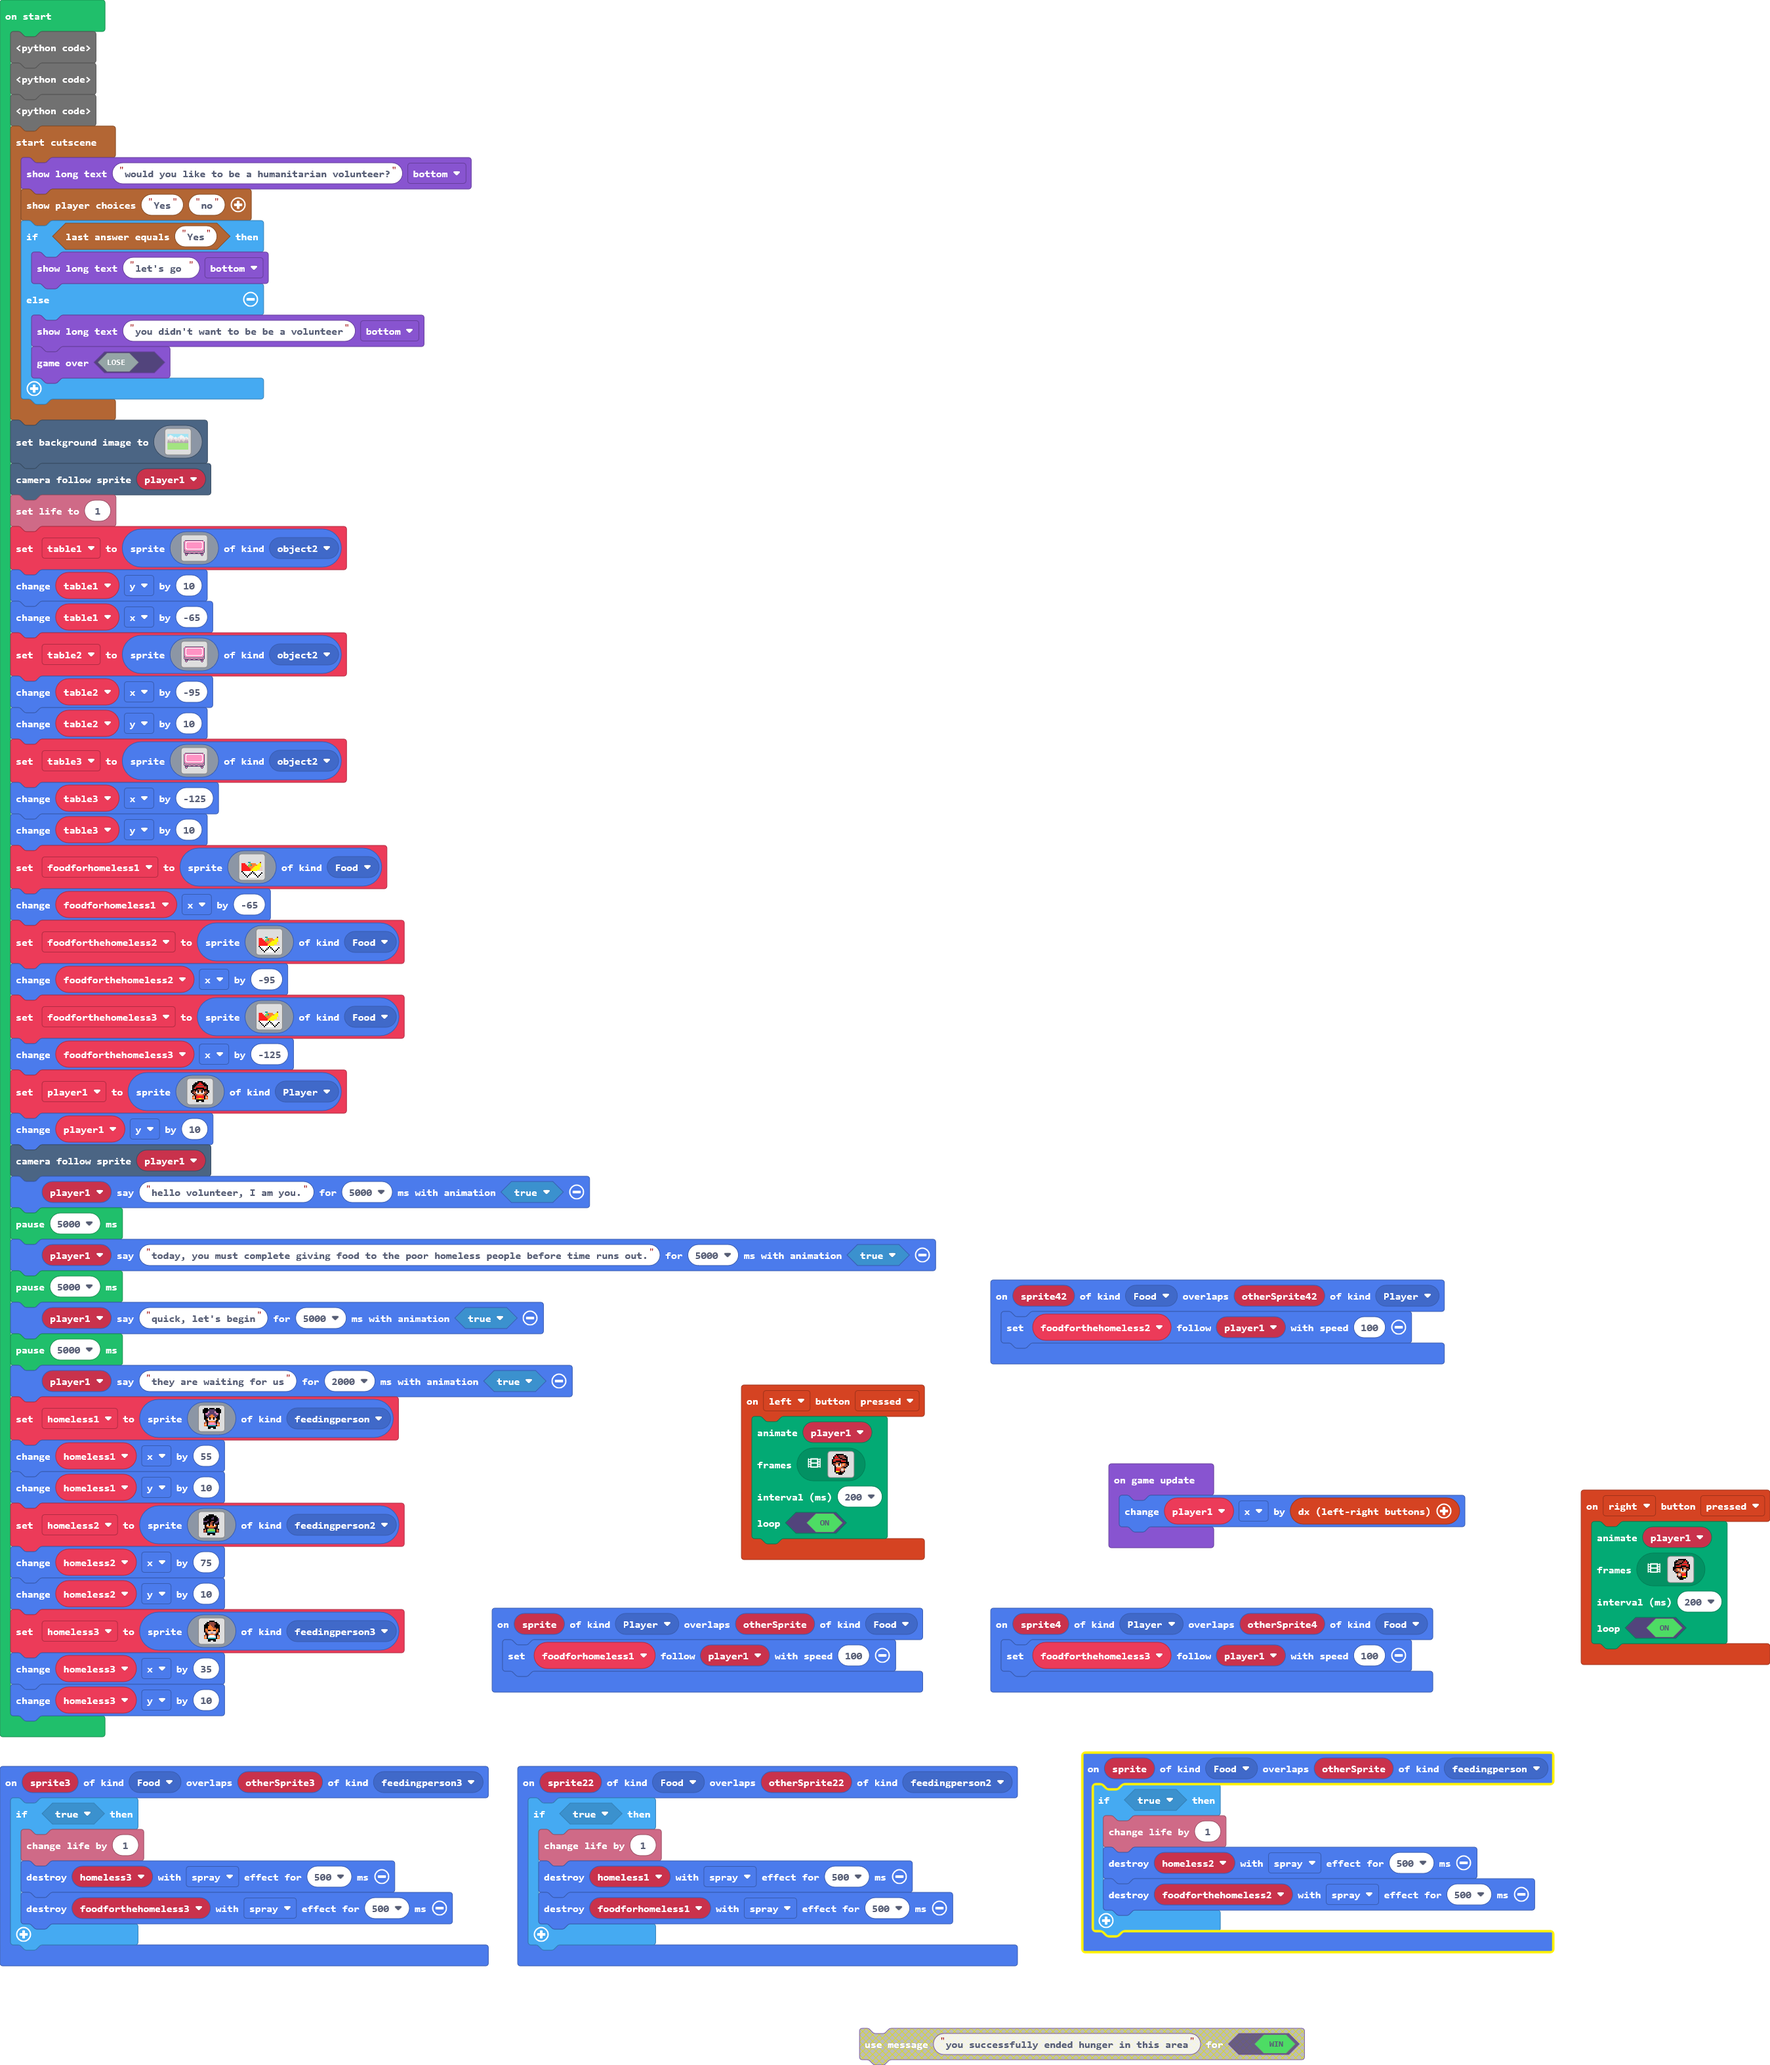
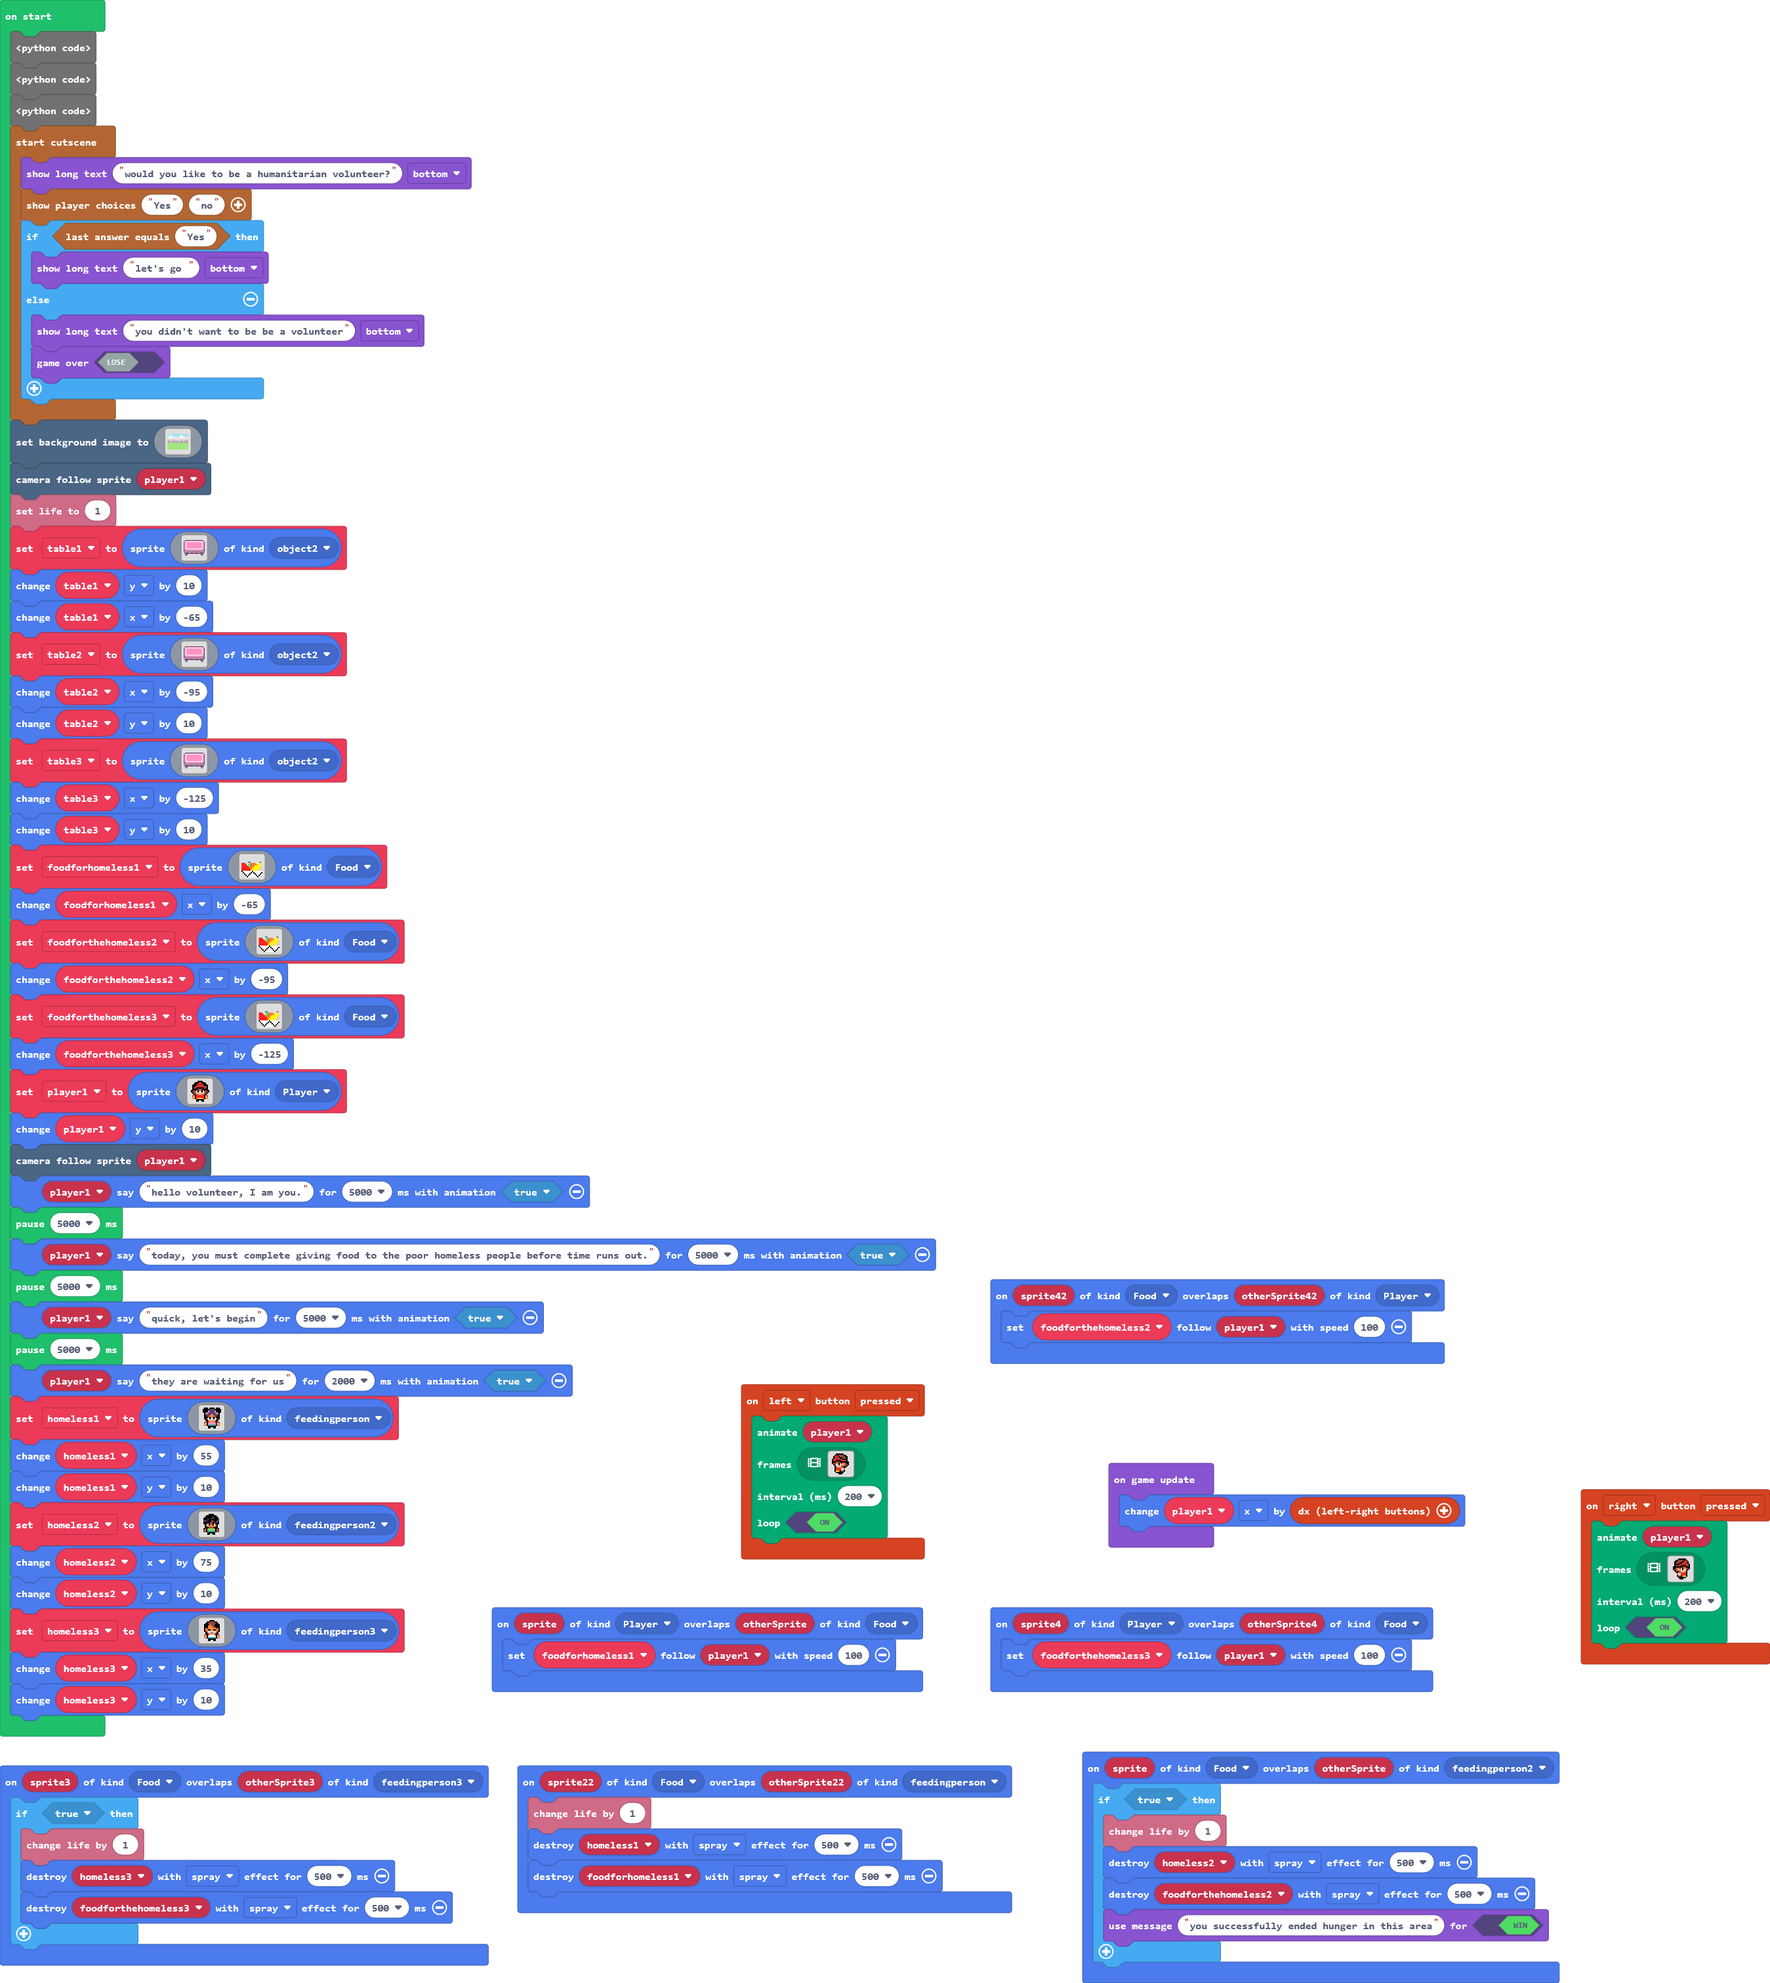
Update main.blocks, main.ts, main.py

Changed region(s): [[0.0, 0.0, 1.0, 1.0]]

diff --git a/main.ts b/main.ts
@@ -4,12 +4,18 @@ namespace SpriteKind {
     export const feedingperson2 = SpriteKind.create()
     export const feedingperson3 = SpriteKind.create()
 }
-sprites.onOverlap(SpriteKind.Food, SpriteKind.feedingperson, function (sprite, otherSprite) {
+sprites.onOverlap(SpriteKind.Food, SpriteKind.feedingperson2, function (sprite, otherSprite) {
     if (true) {
         info.changeLifeBy(1)
         sprites.destroy(homeless2, effects.spray, 500)
         sprites.destroy(foodforthehomeless2, effects.spray, 500)
+        game.setGameOverMessage(true, "you successfully ended hunger in this area")
     }
+})
+sprites.onOverlap(SpriteKind.Food, SpriteKind.feedingperson, function (sprite22, otherSprite22) {
+    info.changeLifeBy(1)
+    sprites.destroy(homeless1, effects.spray, 500)
+    sprites.destroy(foodforhomeless1, effects.spray, 500)
 })
 sprites.onOverlap(SpriteKind.Player, SpriteKind.Food, function (sprite4, otherSprite4) {
     foodforthehomeless3.follow(player1, 100)
@@ -27,13 +33,6 @@ sprites.onOverlap(SpriteKind.Food, SpriteKind.feedingperson3, function (sprite3,
         info.changeLifeBy(1)
         sprites.destroy(homeless3, effects.spray, 500)
         sprites.destroy(foodforthehomeless3, effects.spray, 500)
-    }
-})
-sprites.onOverlap(SpriteKind.Food, SpriteKind.feedingperson2, function (sprite22, otherSprite22) {
-    if (true) {
-        info.changeLifeBy(1)
-        sprites.destroy(homeless1, effects.spray, 500)
-        sprites.destroy(foodforhomeless1, effects.spray, 500)
     }
 })
 controller.right.onEvent(ControllerButtonEvent.Pressed, function () {

diff --git a/main.py b/main.py
@@ -10,11 +10,17 @@ def on_on_overlap(sprite, otherSprite):
         info.change_life_by(1)
         sprites.destroy(homeless2, effects.spray, 500)
         sprites.destroy(foodforthehomeless2, effects.spray, 500)
-sprites.on_overlap(SpriteKind.food, SpriteKind.feedingperson, on_on_overlap)
+sprites.on_overlap(SpriteKind.food, SpriteKind.feedingperson2, on_on_overlap)
 
-def on_on_overlap2(sprite4, otherSprite4):
+def on_on_overlap2(sprite22, otherSprite22):
+    info.change_life_by(1)
+    sprites.destroy(homeless1, effects.spray, 500)
+    sprites.destroy(foodforhomeless1, effects.spray, 500)
+sprites.on_overlap(SpriteKind.food, SpriteKind.feedingperson, on_on_overlap2)
+
+def on_on_overlap3(sprite4, otherSprite4):
     foodforthehomeless3.follow(player1, 100)
-sprites.on_overlap(SpriteKind.player, SpriteKind.food, on_on_overlap2)
+sprites.on_overlap(SpriteKind.player, SpriteKind.food, on_on_overlap3)
 
 def on_left_pressed():
     animation.run_image_animation(player1,
@@ -25,19 +31,12 @@ def on_left_pressed():
         True)
 controller.left.on_event(ControllerButtonEvent.PRESSED, on_left_pressed)
 
-def on_on_overlap3(sprite3, otherSprite3):
+def on_on_overlap4(sprite3, otherSprite3):
     if True:
         info.change_life_by(1)
         sprites.destroy(homeless3, effects.spray, 500)
         sprites.destroy(foodforthehomeless3, effects.spray, 500)
-sprites.on_overlap(SpriteKind.food, SpriteKind.feedingperson3, on_on_overlap3)
-
-def on_on_overlap4(sprite22, otherSprite22):
-    if True:
-        info.change_life_by(1)
-        sprites.destroy(homeless1, effects.spray, 500)
-        sprites.destroy(foodforhomeless1, effects.spray, 500)
-sprites.on_overlap(SpriteKind.food, SpriteKind.feedingperson2, on_on_overlap4)
+sprites.on_overlap(SpriteKind.food, SpriteKind.feedingperson3, on_on_overlap4)
 
 def on_right_pressed():
     animation.run_image_animation(player1,
